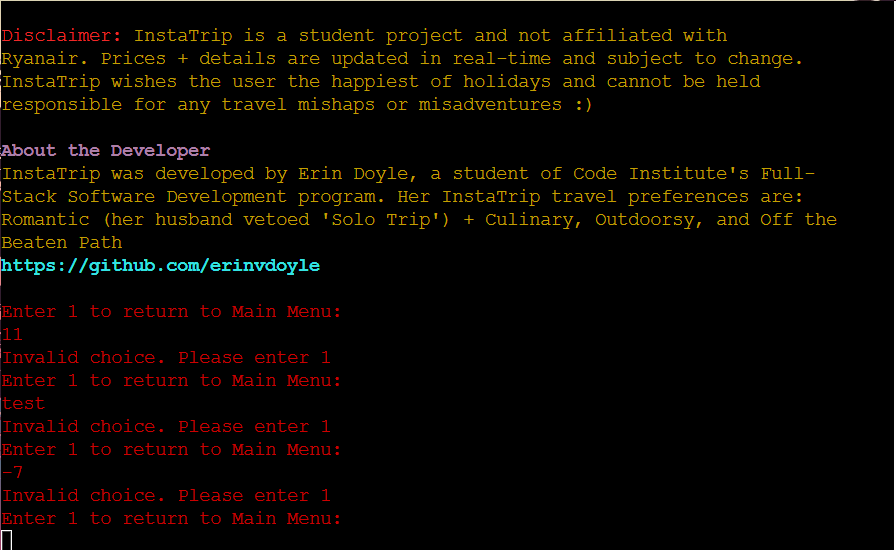
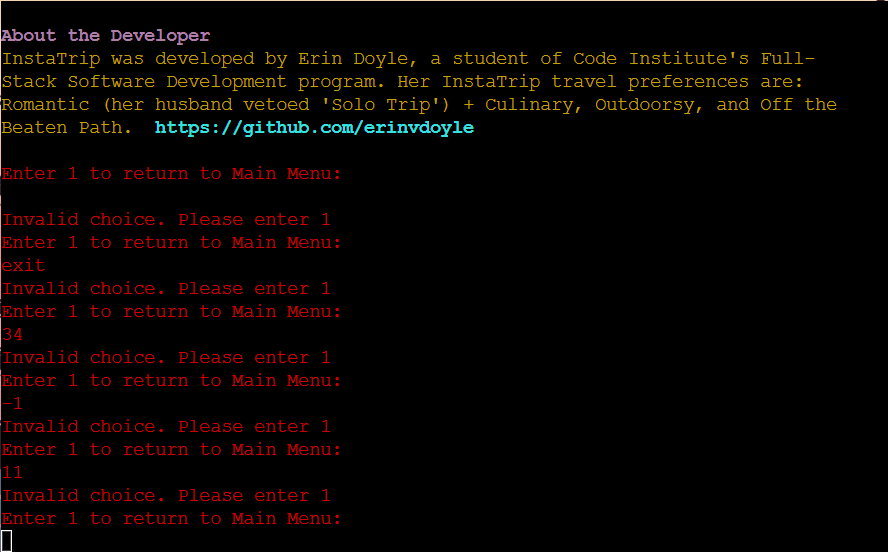
add ANSI escape code to clear about screen and avoid reprints if visited twice

Changed region(s): [[0.0, 0.0309, 0.9426, 1.0], [0.973, 0.0, 1.0, 0.0309], [0.9122, 0.3709, 0.9426, 0.4018]]

diff --git a/run.py b/run.py
@@ -234,6 +234,7 @@ def read_about():
     Displays the about text for both the company and the developer :)
     """
     os.system("cls" if os.name == "nt" else "clear")
+    print("\033[H\033[J") # Manual screen clear
     print(Style.BRIGHT + Fore.MAGENTA + "About InstaTrip" + Style.RESET_ALL)
     print(
         wrap_text(
@@ -281,7 +282,7 @@ def read_about():
         + "of Code Institute's Full-Stack Software Development "
         + "program. Her InstaTrip travel preferences are: Romantic "
         + "(her husband vetoed 'Solo Trip') + Culinary, Outdoorsy, "
-        + "and Off the Beaten Path.  "
+        + "and Off the Beaten Path  "
         + Style.BRIGHT + Fore.LIGHTCYAN_EX
         + "https://github.com/erinvdoyle" + Style.NORMAL
     )
